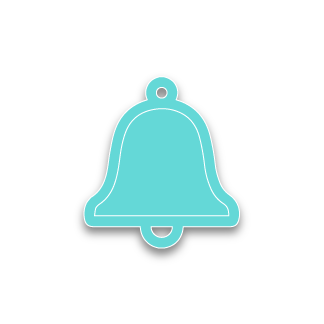
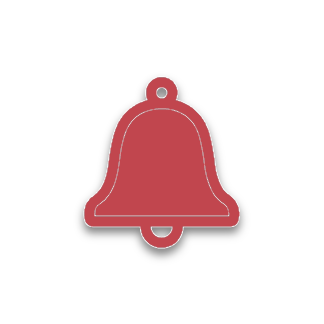
Updates home screen

Changed region(s): [[0.2469, 0.216, 0.7407, 0.7716]]

diff --git a/views/Home/Home.jsx b/views/Home/Home.jsx
@@ -1,11 +1,11 @@
 import React from 'react';
-import { View, ScrollView, StatusBar, TouchableOpacity } from 'react-native';
+import { View, ScrollView, StatusBar, TouchableOpacity, Image } from 'react-native';
 import { Container, Header, Content, Text, Spinner, Footer, Icon } from 'native-base';
 import ProfileHeader from "../../components/ProfileHeader/ProfileHeader";
 import ChannelList from "../../components/ChannelList/ChannelList";
 import NotificationList from "../../components/NotificationList/NotificationList";
 import HomeTabBar from "./HomeTabBar/HomeTabBar";
-import style from "./HomeStyle";
+import styles from "./HomeStyle";
 import ApiClient from '../../ApiClient';
 import { Font} from "expo";
 import { Notifications } from 'expo';
@@ -13,7 +13,24 @@ import _ from 'lodash';
 
 export default class HomeView extends React.Component {
 
-  static navigationOptions = { header: null };
+  static navigationOptions = ({ navigation }) => {
+    return {
+      title: 'Home',
+    headerTintColor: '#FFFFFF',
+    headerStyle: {
+      backgroundColor: '#C1464E'
+      },
+      get headerRight() {
+          return (
+            <TouchableOpacity onPress={() => { 
+              console.log(props.navigation.getParam('user'))
+                this.props.navigation.navigate('Settings', { user: props.navigation.getParam('user') }) }}>
+              <Image source={require('../../assets/settings-with-word-icon.png')} style={styles.settingsIcon} />
+            </TouchableOpacity>
+          )
+      }
+    }
+  };
 
   constructor(props) {
     super(props);
@@ -119,7 +136,7 @@ export default class HomeView extends React.Component {
     if (loading) {
       return (
         <Container>
-          <Content contentContainerStyle={style.contentContainer}>
+          <Content contentContainerStyle={styles.contentContainer}>
             <Spinner color='#cd8500' />
           </Content>
         </Container>
@@ -129,7 +146,6 @@ export default class HomeView extends React.Component {
         <Container>
           <Content>
             <ScrollView>
-              <ProfileHeader user={user} navigation={this.props.navigation}/>
               {this.state.currentTab === 'channels' ? 
                 <ChannelList
                   channels={channels}
@@ -137,8 +153,8 @@ export default class HomeView extends React.Component {
                   user={user}
                 /> :
               <View>
-                <TouchableOpacity style={style.markAllSeen} onPress={this.markNotifsSeen}>
-                  <Text style={style.markAllSeenText}>Mark all as seen</Text>
+                <TouchableOpacity style={styles.markAllSeen} onPress={this.markNotifsSeen}>
+                  <Text style={styles.markAllSeenText}>Mark all as seen</Text>
                 </TouchableOpacity>
                 <NotificationList
                   notifications={this.state.notifications.slice(0, 30)}

diff --git a/views/Home/HomeTabBar/HomeTabBar.jsx b/views/Home/HomeTabBar/HomeTabBar.jsx
@@ -18,15 +18,23 @@ export default class HomeView extends React.Component {
     return (
       <View style={{flex: 1, flexDirection: 'row', backgroundColor:'#FFF'}}>
         <HomeTabBarButton
+          text='Channels'
+          image = {require('../../../assets/cookie-icon.png')}
+          selected={this.props.currentTab === 'channels'}
+          onPress={ () => {this.props.onSwitchTab('channels')} }
+        />
+        <HomeTabBarButton
           text='Notifications'
+          image = {require('../../../assets/bell-OFF.png')}
           selected={this.props.currentTab === 'notifs'}
           onPress={ () => {this.props.onSwitchTab('notifs')} }
           showNotice={this.props.newNotifications}
         />
         <HomeTabBarButton
-          text='Channels'
-          selected={this.props.currentTab === 'channels'}
-          onPress={ () => {this.props.onSwitchTab('channels')} }
+          text='Widgets'
+          image = {require('../../../assets/small-logo.png')}
+          selected={this.props.currentTab === 'widgets'}
+          onPress={ () => {this.props.onSwitchTab('widgets')} }
         />
       </View>
     );

diff --git a/views/Home/HomeTabBar/HomeTabBarButton/HomeTabBarButton.jsx b/views/Home/HomeTabBar/HomeTabBarButton/HomeTabBarButton.jsx
@@ -1,11 +1,11 @@
 import React from 'react';
-import { View, TouchableOpacity } from 'react-native';
-import { Container, Header, Content, Text, Spinner, Footer } from 'native-base';
+import { View, TouchableOpacity, Image } from 'react-native';
+import { Badge} from 'native-base';
 import styles from './HomeTabBarButtonStyle';
 
 export default class HomeView extends React.Component {
   showNotice = () => {
-    if (this.props.showNotice) return <View style={styles.notice}/>;
+    if (this.props.showNotice) return <Badge style={styles.notice}/>;
     return null;
   }
 
@@ -17,7 +17,7 @@ export default class HomeView extends React.Component {
         onPress={this.props.onPress}
       >
         <View>
-          <Text style={styles.text}>{this.props.text}</Text>
+          <Image source={this.props.image} style={styles.image}/>
           {this.showNotice()}
         </View>
       </TouchableOpacity>

diff --git a/views/Home/HomeTabBar/HomeTabBarButton/HomeTabBarButtonStyle.js b/views/Home/HomeTabBar/HomeTabBarButton/HomeTabBarButtonStyle.js
@@ -5,13 +5,14 @@ export default (styles = StyleSheet.create({
     flex: 0.5,
     justifyContent: 'center',
     alignItems:'center',
-    backgroundColor:'#71d3d1'
+    backgroundColor:'#C1464E'
   },
   buttonSelected: {
     flex: 0.5,
     justifyContent: 'center',
     alignItems:'center',
-    backgroundColor:'#408785'
+    backgroundColor:'#943036',
+
   },
   text: {
     color: 'white'
@@ -20,9 +21,10 @@ export default (styles = StyleSheet.create({
     backgroundColor: 'red',
     position: 'absolute',
     marginLeft: -4,
-    alignSelf: 'flex-start',
-    width: 8,
-    height: 8,
-    borderRadius: 4,
+    alignSelf: 'center',
+  },
+  image: {
+    height:40,
+    width: 40
   }
 }));

diff --git a/views/Home/HomeStyle.js b/views/Home/HomeStyle.js
@@ -20,5 +20,9 @@ export default (StyleSheet.create({
 		marginLeft: 6,
 		fontWeight: 'bold',
 		fontSize: 18
-	}
+	},
+	settingsIcon: {
+		width: 50,
+		height: 50,
+	  },
 }));
